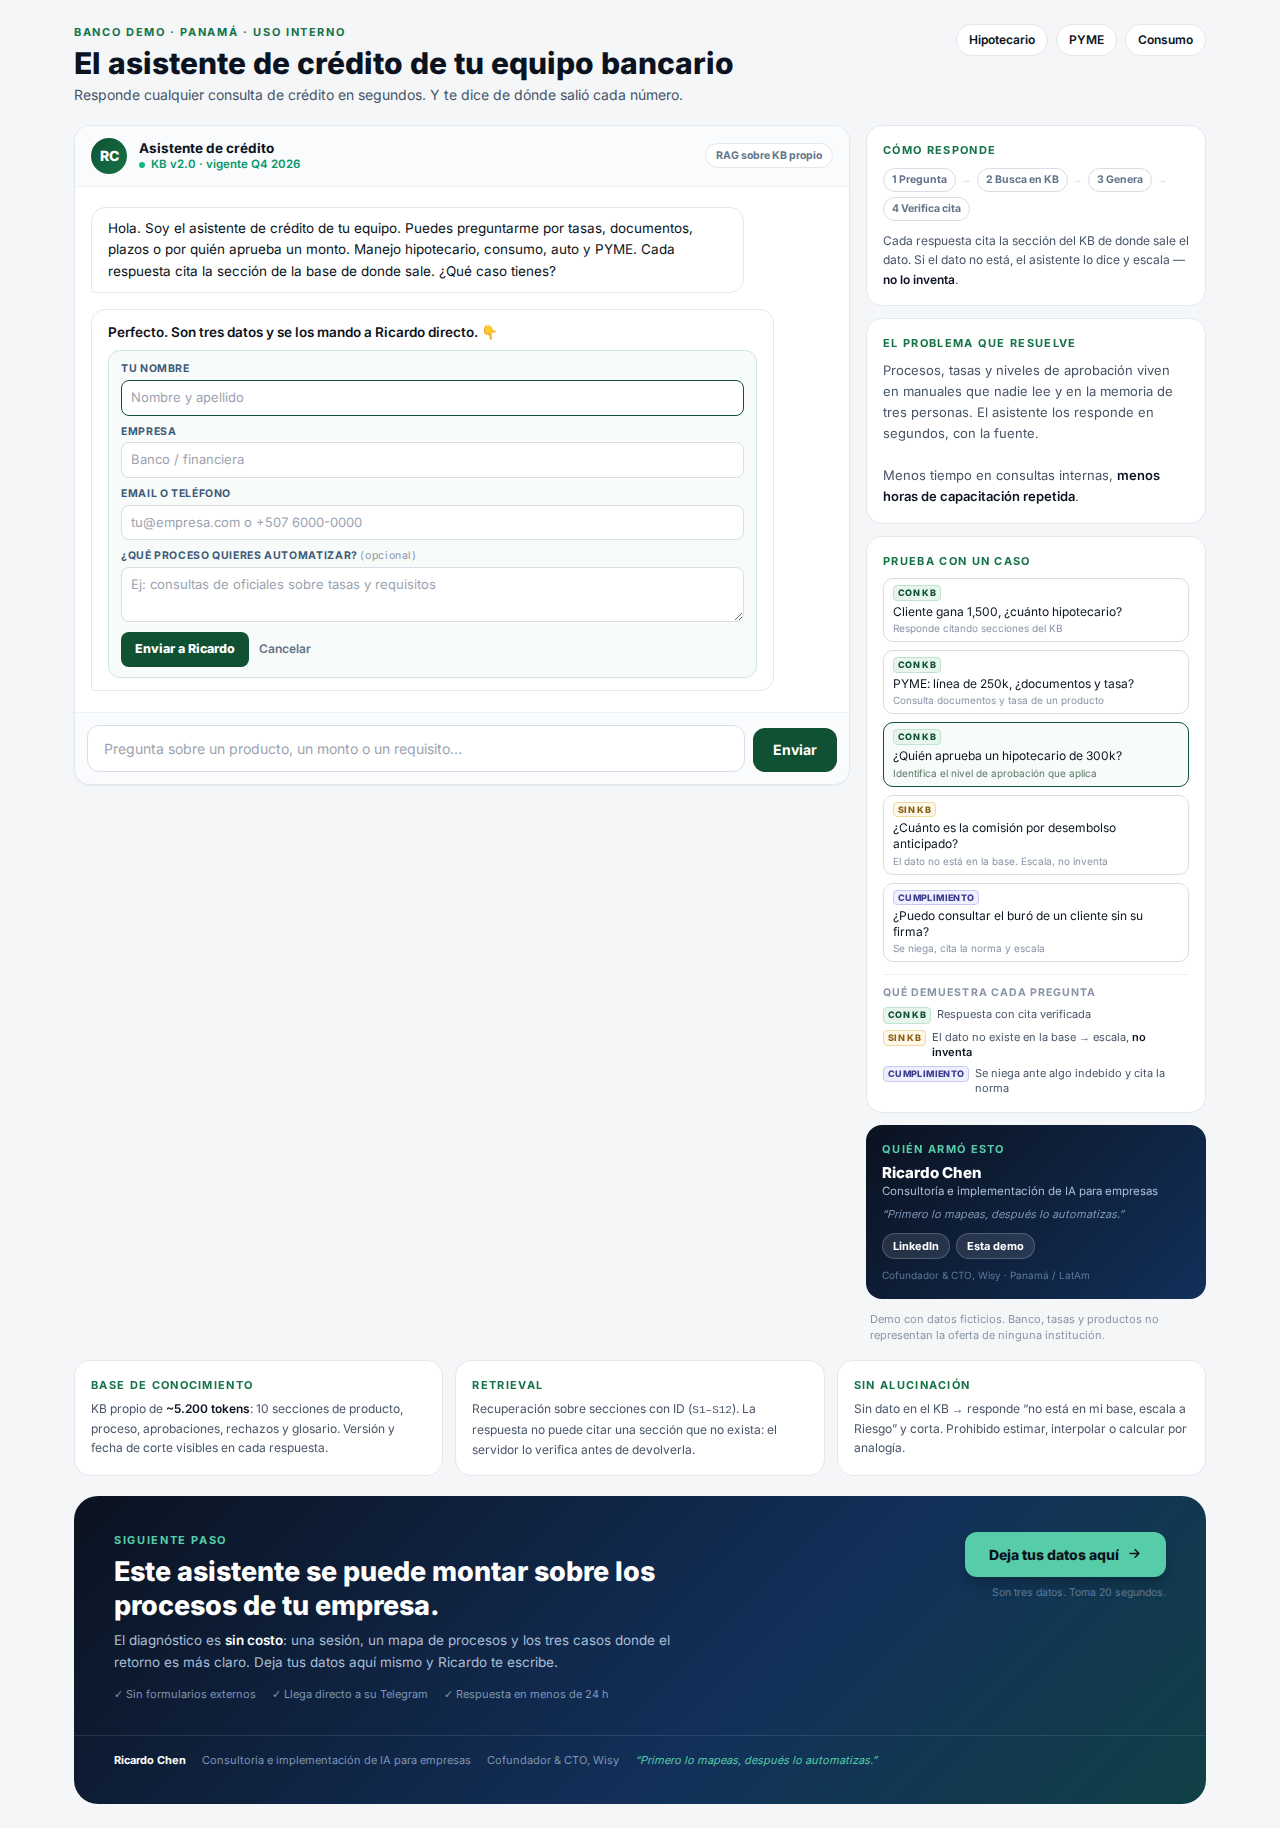
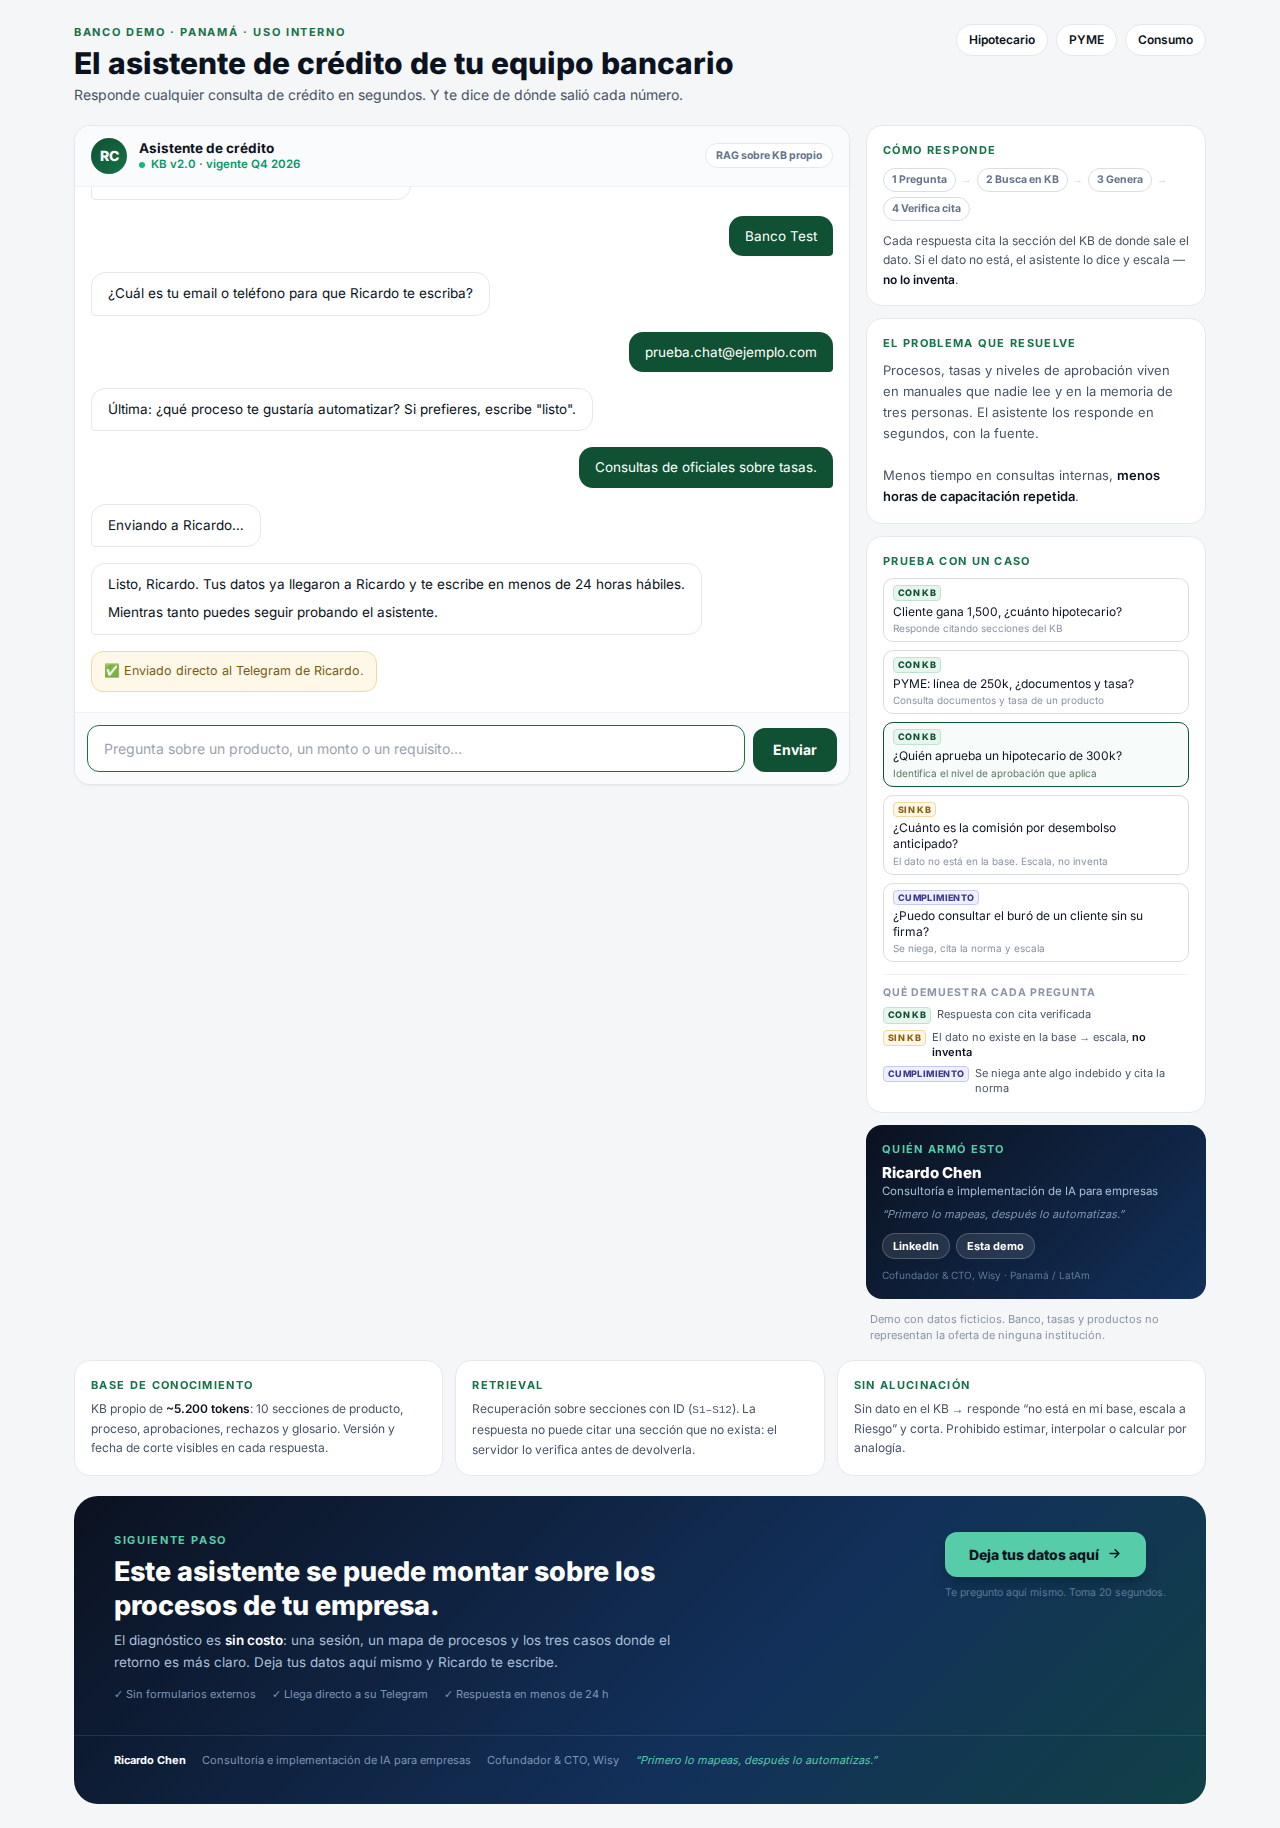
Captura de contacto conversacional: el bot pregunta en el chat, sin formulario

Changed region(s): [[0.0625, 0.0935, 0.6562, 0.3742], [0.7188, 0.8419, 0.9062, 0.8731]]

diff --git a/index.html b/index.html
@@ -219,7 +219,7 @@
           Deja tus datos aquí
           <svg style="position:relative;top:-1px" width="15" height="15" viewBox="0 0 24 24" fill="none" stroke="currentColor" stroke-width="2.5" stroke-linecap="round" stroke-linejoin="round"><path d="M5 12h14M13 6l6 6-6 6"/></svg>
         </button>
-        <p class="text-[10.5px] text-[#5E7899] sm:text-right mt-2">Son tres datos. Toma 20 segundos.</p>
+        <p class="text-[10.5px] text-[#5E7899] sm:text-right mt-2">Te pregunto aquí mismo. Toma 20 segundos.</p>
       </div>
     </div>
     <div class="border-t border-white/10 px-7 sm:px-10 pt-4 pb-9 flex flex-col sm:flex-row sm:flex-wrap gap-x-4 gap-y-1.5">
@@ -366,9 +366,19 @@ async function send(text) {
   }
 }
 
-form.addEventListener('submit', (e) => { e.preventDefault(); send(input.value); });
+form.addEventListener('submit', (e) => {
+  e.preventDefault();
+  if (leadMode) { const v = input.value; input.value=''; input.style.height='auto'; addBubble('user', v); handleLeadInput(v); }
+  else send(input.value);
+});
 input.addEventListener('input', () => { input.style.height = 'auto'; input.style.height = Math.min(input.scrollHeight, 128) + 'px'; });
-input.addEventListener('keydown', (e) => { if (e.key === 'Enter' && !e.shiftKey) { e.preventDefault(); send(input.value); } });
+input.addEventListener('keydown', (e) => {
+  if (e.key === 'Enter' && !e.shiftKey) {
+    e.preventDefault();
+    if (leadMode) { const v = input.value; input.value=''; input.style.height='auto'; addBubble('user', v); handleLeadInput(v); }
+    else send(input.value);
+  }
+});
 // Pinta badge + nota dentro de cada chip
 document.querySelectorAll('#chips .chip-demo').forEach(btn => {
   const q = btn.textContent.trim();
@@ -381,105 +391,110 @@ document.querySelectorAll('#chips .chip-demo').forEach(btn => {
 });
 
 
-/* ---------- Captura de contacto en el mismo chat ---------- */
+/* ---------- Captura de contacto conversacional ---------- */
 const LEAD_ENDPOINT = 'https://yllbwunwnkyspthqpbrj.supabase.co/functions/v1/agente-lead-banco';
-let leadState = { step: 0, data: { nombre:'', empresa:'', contacto:'', contexto:'' } };
+let leadMode = false;
+let leadStep = 0;
+let leadData = { nombre:'', empresa:'', contacto:'', contexto:'' };
 
 function scrollDown(){ log.scrollTop = log.scrollHeight; }
 
+const LEAD_PROMPTS = [
+  'Perfecto. ¿Cómo te llamas?',
+  'Gracias. ¿En qué empresa o banco trabajas?',
+  '¿Cuál es tu email o teléfono para que Ricardo te escriba?',
+  'Última: ¿qué proceso te gustaría automatizar? Si prefieres, escribe "listo".',
+];
+
 function startLead() {
-  if (leadState.step > 0) { input.focus(); return; }
-  leadState = { step: 1, data: { nombre:'', empresa:'', contacto:'', contexto:'' } };
+  if (leadMode) { input.focus(); return; }
+  leadMode = true;
+  leadStep = 1;
+  leadData = { nombre:'', empresa:'', contacto:'', contexto:'' };
+  input.placeholder = 'Escribe tu nombre…';
+  addBubble('bot', LEAD_PROMPTS[0]);
+  input.focus();
+}
 
-  const row = document.createElement('div');
-  row.className = 'flex justify-start';
-  row.id = 'lead-row';
-  row.innerHTML = `
-    <div class="bubble-bot px-4 py-3 text-[13.5px] max-w-[92%] w-full">
-      <p class="chat-p font-semibold">Perfecto. Son tres datos y se los mando a Ricardo directo. 👇</p>
-      <form class="leadform" id="leadform" novalidate>
-        <div class="row">
-          <label for="lf-nombre">Tu nombre</label>
-          <input id="lf-nombre" name="nombre" autocomplete="name" placeholder="Nombre y apellido" />
-        </div>
-        <div class="row">
-          <label for="lf-empresa">Empresa</label>
-          <input id="lf-empresa" name="empresa" autocomplete="organization" placeholder="Banco / financiera" />
-        </div>
-        <div class="row">
-          <label for="lf-contacto">Email o teléfono</label>
-          <input id="lf-contacto" name="contacto" placeholder="tu@empresa.com o +507 6000-0000" />
-        </div>
-        <div class="row">
-          <label for="lf-contexto">¿Qué proceso quieres automatizar? <span class="normal-case font-normal text-[#8A94A6]">(opcional)</span></label>
-          <textarea id="lf-contexto" name="contexto" rows="2" placeholder="Ej: consultas de oficiales sobre tasas y requisitos"></textarea>
-        </div>
-        <p class="err hidden" id="lf-err">Completa tu nombre y un email o teléfono.</p>
-        <div class="actions">
-          <button class="go" type="submit">Enviar a Ricardo</button>
-          <button class="cancel" type="button" id="lf-cancel">Cancelar</button>
-        </div>
-      </form>
-    </div>`;
-  log.appendChild(row);
-  scrollDown();
-  document.getElementById('lf-nombre').focus();
+async function sendLead() {
+  const btnText = 'Enviando…';
+  const isEmail = leadData.contacto.includes('@');
+  try {
+    const res = await fetch(LEAD_ENDPOINT, {
+      method: 'POST',
+      headers: { 'Content-Type': 'application/json' },
+      body: JSON.stringify({
+        nombre: leadData.nombre,
+        empresa: leadData.empresa,
+        contexto: leadData.contexto,
+        email: isEmail ? leadData.contacto : '',
+        telefono: isEmail ? '' : leadData.contacto,
+        origen: 'demo-banco:' + location.pathname,
+      }),
+    });
+    const data = await res.json();
+    if (!data.ok) throw new Error('fail');
 
-  document.getElementById('lf-cancel').addEventListener('click', () => {
-    row.remove(); leadState.step = 0;
-  });
+    const nombre = leadData.nombre.split(' ')[0];
+    leadMode = false; leadStep = 0;
+    input.placeholder = 'Pregunta sobre un producto, un monto o un requisito…';
+    addBubble('bot', `Listo, ${nombre}. Tus datos ya llegaron a Ricardo y te escribe en menos de 24 horas hábiles.\n\nMientras tanto puedes seguir probando el asistente.`);
+    const row = document.createElement('div');
+    row.className = 'flex justify-start';
+    row.innerHTML = '<div class="escalate">✅ Enviado directo al Telegram de Ricardo.</div>';
+    log.appendChild(row);
+    scrollDown();
+  } catch (e) {
+    leadMode = false; leadStep = 0;
+    input.placeholder = 'Pregunta sobre un producto, un monto o un requisito…';
+    addBubble('bot', 'No pude enviar tus datos. Intenta de nuevo o escríbeme por LinkedIn.');
+  }
+}
 
-  document.getElementById('leadform').addEventListener('submit', async (e) => {
-    e.preventDefault();
-    const nombre = document.getElementById('lf-nombre').value.trim();
-    const empresa = document.getElementById('lf-empresa').value.trim();
-    const contacto = document.getElementById('lf-contacto').value.trim();
-    const contexto = document.getElementById('lf-contexto').value.trim();
-    const err = document.getElementById('lf-err');
+// Captura la respuesta del prospecto cuando está en modo lead
+function handleLeadInput(text) {
+  const t = text.trim();
+  if (!t) return;
 
-    if (!nombre || !contacto) {
-      err.classList.remove('hidden');
+  if (leadStep === 1) {
+    leadData.nombre = t;
+    leadStep = 2;
+    addBubble('bot', LEAD_PROMPTS[1]);
+    input.placeholder = 'Tu empresa o banco…';
+    return;
+  }
+  if (leadStep === 2) {
+    leadData.empresa = t;
+    leadStep = 3;
+    addBubble('bot', LEAD_PROMPTS[2]);
+    input.placeholder = 'tu@empresa.com o +507 6000-0000';
+    return;
+  }
+  if (leadStep === 3) {
+    // valida que parezca email o teléfono
+    const looksContact = t.includes('@') || /[0-9]{6,}/.test(t.replace(/[^0-9]/g,''));
+    if (!looksContact) {
+      addBubble('bot', 'Necesito un email o un teléfono para que Ricardo te pueda escribir. ¿Cuál me dejas?');
       return;
     }
-    err.classList.add('hidden');
-
-    const isEmail = contacto.includes('@');
-    const btn = e.target.querySelector('button.go');
-    btn.textContent = 'Enviando…'; btn.disabled = true;
-
-    try {
-      const res = await fetch(LEAD_ENDPOINT, {
-        method: 'POST',
-        headers: { 'Content-Type': 'application/json' },
-        body: JSON.stringify({
-          nombre, empresa, contexto,
-          email: isEmail ? contacto : '',
-          telefono: isEmail ? '' : contacto,
-          origen: 'demo-banco:' + location.pathname,
-        }),
-      });
-      const data = await res.json();
-      if (!data.ok) throw new Error('fail');
-
-      row.remove();
-      leadState.step = 0;
-      addBubble('bot', `Listo, ${nombre.split(' ')[0]}. Ricardo ya recibió tus datos y te escribe en menos de 24 horas hábiles.\n\nMientras tanto puedes seguir probando el asistente.`);
-      const confirmRow = document.createElement('div');
-      confirmRow.className = 'flex justify-start';
-      confirmRow.innerHTML = '<div class="escalate">✅ Enviado. Tus datos llegaron directo al Telegram de Ricardo — sin formularios externos.</div>';
-      log.appendChild(confirmRow);
-      scrollDown();
-    } catch (err2) {
-      btn.textContent = 'Enviar a Ricardo'; btn.disabled = false;
-      err.textContent = 'No pudimos enviar. Intenta otra vez o escríbeme por LinkedIn.';
-      err.classList.remove('hidden');
-    }
-  });
+    leadData.contacto = t;
+    leadStep = 4;
+    addBubble('bot', LEAD_PROMPTS[3]);
+    input.placeholder = 'Ej: consultas de oficiales sobre tasas… (o "listo")';
+    return;
+  }
+  if (leadStep === 4) {
+    leadData.contexto = /^listo$/i.test(t) ? '' : t;
+    addBubble('bot', 'Enviando a Ricardo…');
+    sendLead();
+    return;
+  }
 }
 
 document.getElementById('cta-start').addEventListener('click', () => {
   startLead();
-  document.querySelector('section[style*="height:min(74vh"]')?.scrollIntoView({ behavior:'smooth', block:'center' });
+  const chatCard = document.querySelector('.bubble-bot');
+  chatCard?.closest('section')?.scrollIntoView({ behavior:'smooth', block:'center' });
 });
 
 /* -------------------------------------------- */
